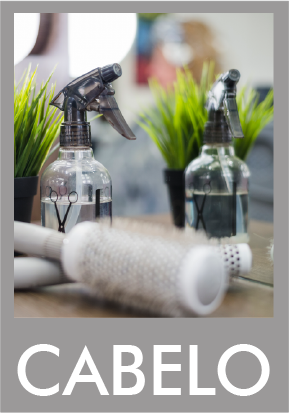
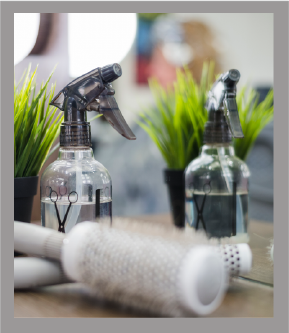
ajustes diversos

diff --git a/frontend/src/components/Navbar/NavbarHome/index.js b/frontend/src/components/Navbar/NavbarHome/index.js
@@ -46,8 +46,8 @@ export default class NavbarHome extends React.Component {
               </FormGroup>
             </ModalBody>
             <ModalFooter>
-              <Button className="btn btn-primary buttonNAV" href="/dashboard">Entrar</Button>
-              <Button className="btn btn-secondary buttonNAV" onClick={this.abrirModal}>Sair</Button>
+              <Button id="buttonNAV" className="btn btn-primary" href="/dashboard">Entrar</Button>
+              <Button id="buttonNAV" className="btn btn-secondary" onClick={this.abrirModal}>Sair</Button>
             </ModalFooter>
             <div>
               <p className="forgot-password text-right mr-3">Esqueceu sua senha?<a href="#">&nbsp;Clique aqui</a></p>
@@ -62,17 +62,17 @@ export default class NavbarHome extends React.Component {
             <Nav.Link href="/produtos">Produtos</Nav.Link>
             <Nav.Link href="/marcas">Marcas</Nav.Link>
             <NavDropdown title="Categorias" id="basic-nav-dropdown">
-              <NavDropdown.Item href="/">Barbearia</NavDropdown.Item>
-              <NavDropdown.Item href="/">Cabelo</NavDropdown.Item>
-              <NavDropdown.Item href="/">Lançamentos</NavDropdown.Item>
-              <NavDropdown.Item href="/">Pele</NavDropdown.Item>
+              <NavDropdown.Item href="/categorias/barbearia">Barbearia</NavDropdown.Item>
+              <NavDropdown.Item href="/categorias/cabelo">Cabelo</NavDropdown.Item>
+              <NavDropdown.Item href="/categorias/lacamentos">Lançamentos</NavDropdown.Item>
+              <NavDropdown.Item href="/categorias/pele">Pele</NavDropdown.Item>
               <NavDropdown.Divider />
-              <NavDropdown.Item href="/">Unhas</NavDropdown.Item>
+              <NavDropdown.Item href="/categorias/unha">Unhas</NavDropdown.Item>
             </NavDropdown>
           </Nav>
           <Form inline size="sm">
             {/* <FormControl type="text" placeholder="Produtos" className="mr-sm-2" /> */}
-            <Button href="/login" variant="outline-light" className="buttonNAV">Entrar na conta</Button>
+            <Button href="/login" variant="outline-light" id="navButton">Entrar na conta</Button>
           </Form>
         </Navbar.Collapse>
       </Navbar>

diff --git a/frontend/src/pages/DashboardDeletar/index.js b/frontend/src/pages/DashboardDeletar/index.js
@@ -1,11 +1,60 @@
 import Admin from "../templates/Admin";
+import {
+  Button, Form, Nav,
+  Navbar,
+  NavDropdown
+} from "react-bootstrap";
+import { Modal, ModalHeader, ModalBody, ModalFooter, FormGroup, Input, Label } from 'reactstrap';
+import 'bootstrap/dist/css/bootstrap.css';
+import React from "react";
 
-const DashboardDeletar = () => {
+export class DashboardDeletar extends React.Component {
+
+  state = {
+    aberto: false,
+  }
+
+  abrirModal = () => {
+    this.setState({ aberto: !this.state.aberto });
+  }
+
+  render() {
+
   return (
     <>
-      <h1>Dashboard: Deletar Produtos</h1>
+        {/* Modal pra Cadastro de Administrador   */}
+        <Modal isOpen={this.state.aberto}>
+            <ModalHeader>
+              Iniciar Sessão como Administrador
+            </ModalHeader>
+            <ModalBody>
+              <FormGroup>
+                <Label for="usuario">Usuário:</Label>
+                <Input type="text" id="usuario" />
+              </FormGroup>
+              <FormGroup>
+                <Label htmlFor="password">Senha:</Label>
+                <Input type="text" id="password" />
+              </FormGroup>
+              <FormGroup>
+              <div className="lembrar">
+                <input type="checkbox" className="ml-1" />
+                <label for="customCheck" className="ml-2">Lembrar usuário</label>
+                </div>
+              </FormGroup>
+            </ModalBody>
+            <ModalFooter>
+              <Button className="btn btn-primary buttonNAV" href="/dashboard">Entrar</Button>
+              <Button className="btn btn-secondary buttonNAV" onClick={this.abrirModal}>Sair</Button>
+            </ModalFooter>
+            <div>
+              <p className="forgot-password text-right mr-3">Esqueceu sua senha?<a href="#">&nbsp;Clique aqui</a></p>
+            </div>
+        </Modal>
+        {/* Fim do Modal pra Cadastro de Administrador   */}
     </>
   );
+};
 };
 
 const template = () => (

diff --git a/frontend/src/components/Categorias/style.css b/frontend/src/components/Categorias/style.css
@@ -47,9 +47,10 @@
     margin-inline: auto;
     flex-flow: row nowrap;
     text-align: center;
+    margin-top: 30px;
 }
 
-.img-produtos1:hover{
+.img-produtos1:hover {
     transform: scale(1.1);
 }
 
@@ -58,13 +59,22 @@
     height: 336px;
     width: 248px;
     position: relative;
-    margin-top: 20px;
     vertical-align: top;
     background-color: lightgray;
-    
+    margin: 20px 0;
+    box-shadow: 0px 1px 5px 0px rgba(0, 0, 0, 0.75);
+    -webkit-box-shadow: 0px 1px 5px 0px rgba(0, 0, 0, 0.75);
+    -moz-box-shadow: 0px 1px 5px 0px rgba(0, 0, 0, 0.75);
 }
-.img-produtos:hover{
+
+.img-produtos:hover {
     transform: scale(1.1);
+}
+
+@media screen and (min-width: 544px) {
+    .img-produtos1 {
+        margin-top: 20px;
+    }
 }
 
 .img-produtos {
@@ -73,6 +83,9 @@
     width: 224px;
     position: relative;
     background-color: black;
+    box-shadow: 0px 1px 5px 0px rgba(0, 0, 0, 0.75);
+    -webkit-box-shadow: 0px 1px 5px 0px rgba(0, 0, 0, 0.75);
+    -moz-box-shadow: 0px 1px 5px 0px rgba(0, 0, 0, 0.75);
 }
 
 #h2-produtos {

diff --git a/frontend/src/components/FinalizarCompras/OpcoesDePagamento/index.js b/frontend/src/components/FinalizarCompras/OpcoesDePagamento/index.js
@@ -2,7 +2,7 @@ import boleto from "../../../assets/img/finalizar-compras/boleto.png";
 import CartaoDeCredito from "../../../assets/img/finalizar-compras/CartaoDeCredito.png";
 import CartaoDeDebito from "../../../assets/img/finalizar-compras/CartaoDeDebito.png";
 import PIX from "../../../assets/img/finalizar-compras/PIX.png";
-import { NavComprasButton } from "../../Button";
+import { NavButton } from "../../Button";
 import "./style.css";
 
 const OpcoesDePagamento = (props) => {
@@ -34,11 +34,11 @@ const OpcoesDePagamento = (props) => {
           </form>
         </div>
         <div className="buttons">
-          <NavComprasButton
+          <NavButton
             titulo="Voltar"
             executeFunction={() => setActivePage(0)}
           />
-          <NavComprasButton
+          <NavButton
             titulo="Continuar"
             executeFunction={() => setActivePage(2)}
           />

diff --git a/frontend/src/components/Categorias/index.js b/frontend/src/components/Categorias/index.js
@@ -1,8 +1,8 @@
-import barbearia from "../../assets/img/nossos-produtos/produtosBarbearia.png";
-import cabelo from "../../assets/img/nossos-produtos/produtosCabelo.png";
-import lancamentos from "../../assets/img/nossos-produtos/produtosLançamentos.png";
-import pele from "../../assets/img/nossos-produtos/produtosPele.png";
-import unhas from "../../assets/img/nossos-produtos/produtosUnhas.png";
+import barbearia from "../../assets/img/nossos-produtos/produtosBarbearia2.png";
+import cabelo from "../../assets/img/nossos-produtos/produtosCabelo2.png";
+import lancamentos from "../../assets/img/nossos-produtos/produtosLançamentos2.png";
+import pele from "../../assets/img/nossos-produtos/produtosPele2.png";
+import unhas from "../../assets/img/nossos-produtos/produtosUnhas2.png";
 import "./style.css";
 
 const Categorias = () => {

diff --git a/frontend/src/components/FinalizarCompras/DetalhesDaCompra/index.js b/frontend/src/components/FinalizarCompras/DetalhesDaCompra/index.js
@@ -1,5 +1,5 @@
 import { useHistory } from "react-router-dom";
-import { NavComprasButton } from "../../../components/Button";
+import { NavButton } from "../../../components/Button";
 import "./style.css";
 
 const DetalhesDaCompra = (props) => {
@@ -36,11 +36,11 @@ const DetalhesDaCompra = (props) => {
           </div>
         </form>
         <div className="buttons">
-          <NavComprasButton
+          <NavButton
             titulo="Voltar"
             executeFunction={() => history.push("/shopping__cart")}
           />
-          <NavComprasButton
+          <NavButton
             titulo="Continuar"
             executeFunction={() => setActivePage(1)}
           />

diff --git a/frontend/src/components/FinalizarCompras/ReviseSuaCompra/index.js b/frontend/src/components/FinalizarCompras/ReviseSuaCompra/index.js
@@ -1,5 +1,5 @@
 import Produto from "../../../assets/img/finalizar-compras/Produto.png";
-import { EndButton, NavComprasButton } from "../../Button";
+import { EndButton, NavButton } from "../../Button";
 import "./style.css";
 
 const ReviseSuaCompra = (props) => {
@@ -43,7 +43,7 @@ const ReviseSuaCompra = (props) => {
           </div>
         </div>
       </article>
-      <NavComprasButton
+      <NavButton
         titulo="Voltar"
         executeFunction={() => setActivePage(1)}
       />

diff --git a/frontend/src/components/Marcas/style.css b/frontend/src/components/Marcas/style.css
@@ -192,8 +192,8 @@ h3 {
 }
 
 .btn-ver-marcas {
-    background-color: var(--cor1);
-    border: 1px solid var(--cor1);
+    background-color: var(--cor3);
+    border: 1px solid var(--cor3);
     border-radius: 10px;
     color: var(--cor2);
     margin: 10px 10px 20px;
@@ -206,7 +206,7 @@ h3 {
 
 .btn-ver-marcas:hover {
     border: none;
-    background-color: var(--cor3);
-    color: var(--cor1);
+    background-color: var(--cor1);
+    color: var(--cor3);
 
 }

diff --git a/frontend/src/components/Button/NavButton/index.js b/frontend/src/components/Button/NavButton/index.js
@@ -1,7 +1,7 @@
 import React from "react";
 import "./style.css";
 
-const NavComprasButton = (props) => {
+const NavButton = (props) => {
   const { titulo, executeFunction } = props;
   return (
     <nav id="btn-back">
@@ -12,4 +12,4 @@ const NavComprasButton = (props) => {
   );
 };
 
-export default NavComprasButton;
+export default NavButton;

diff --git a/frontend/src/pages/Sobre/style.css b/frontend/src/pages/Sobre/style.css
@@ -1,6 +1,7 @@
 .about-container{
     background-image: url("../../assets/img/kit.jpg");
     background-size: cover;
+    background-color: #291810;
     display: column;
     margin: 0 auto;
     justify-content: center;

diff --git a/frontend/src/pages/Contato/style.css b/frontend/src/pages/Contato/style.css
@@ -1,6 +1,7 @@
 .grid-container{
     background-image: url("../../assets/img/kit.jpg");
     background-size: cover;
+    background-color: #291810;
     margin: 0 auto;
     display: flex;
     flex-flow: row wrap;

diff --git a/frontend/src/components/Button/index.js b/frontend/src/components/Button/index.js
@@ -1,4 +1,4 @@
-import NavComprasButton from './NavComprasButton'
+import NavButton from './NavButton'
 import EndButton from './EndButton'
 
-export {NavComprasButton, EndButton}
+export {NavButton, EndButton}
